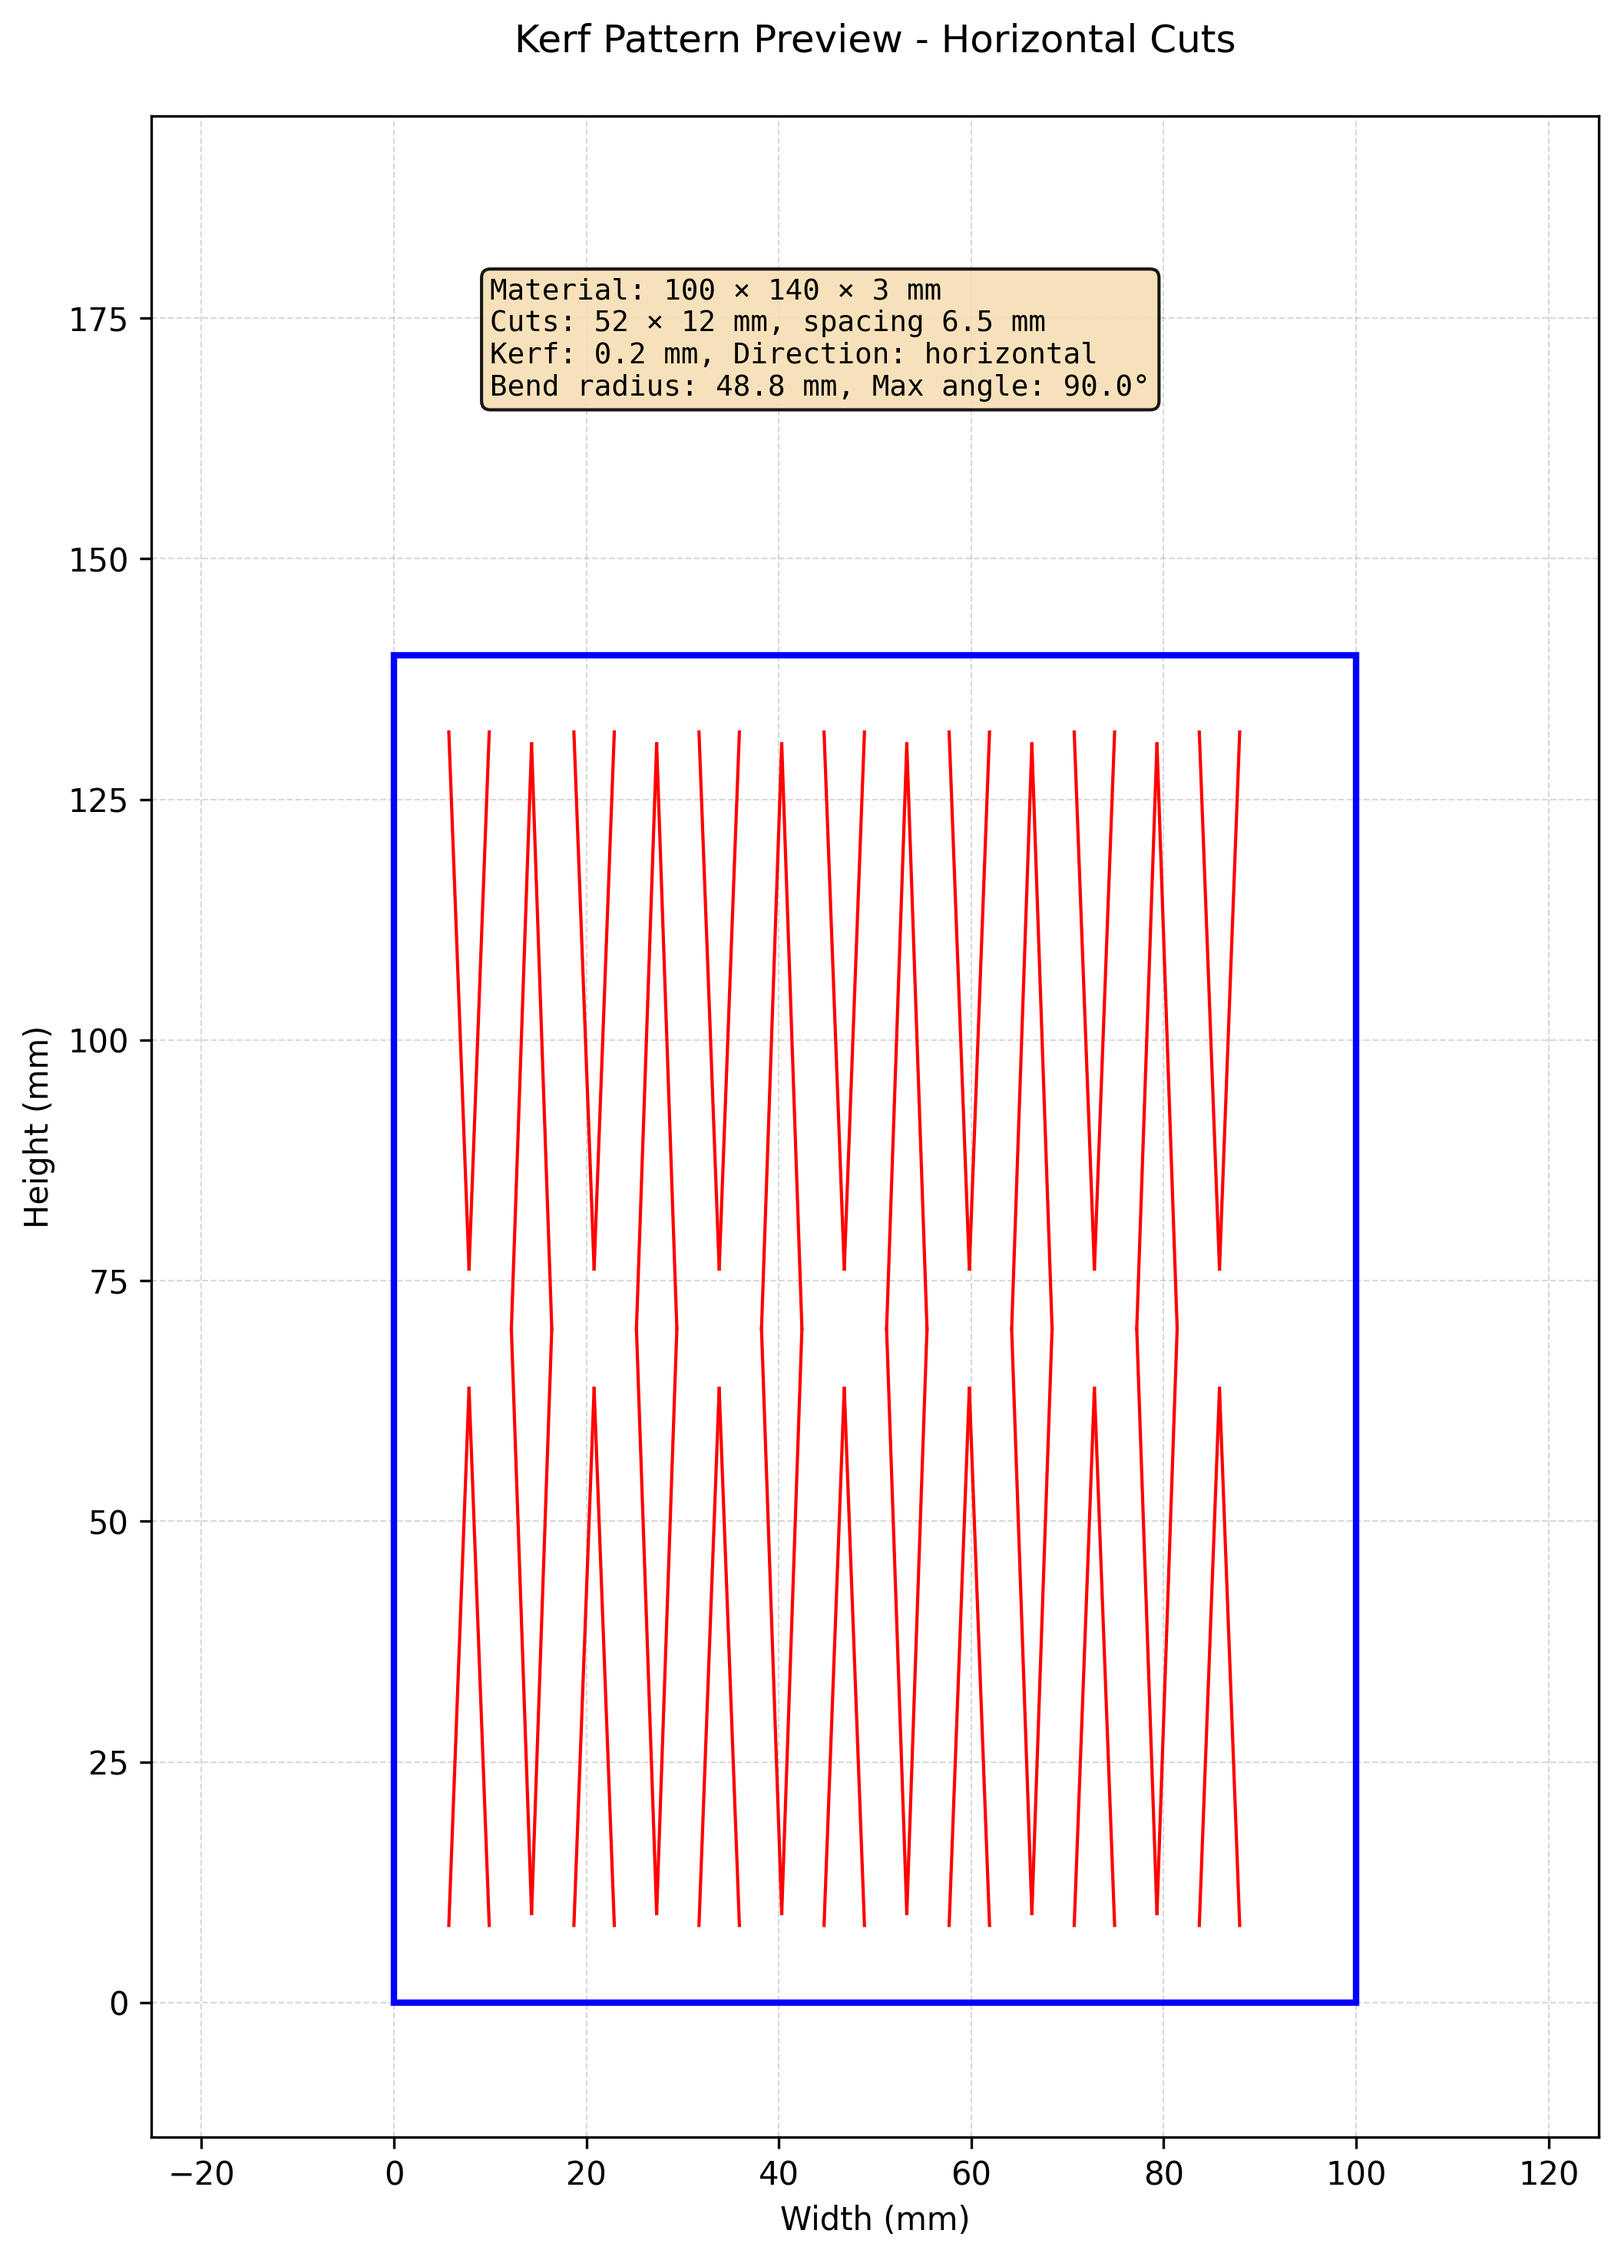
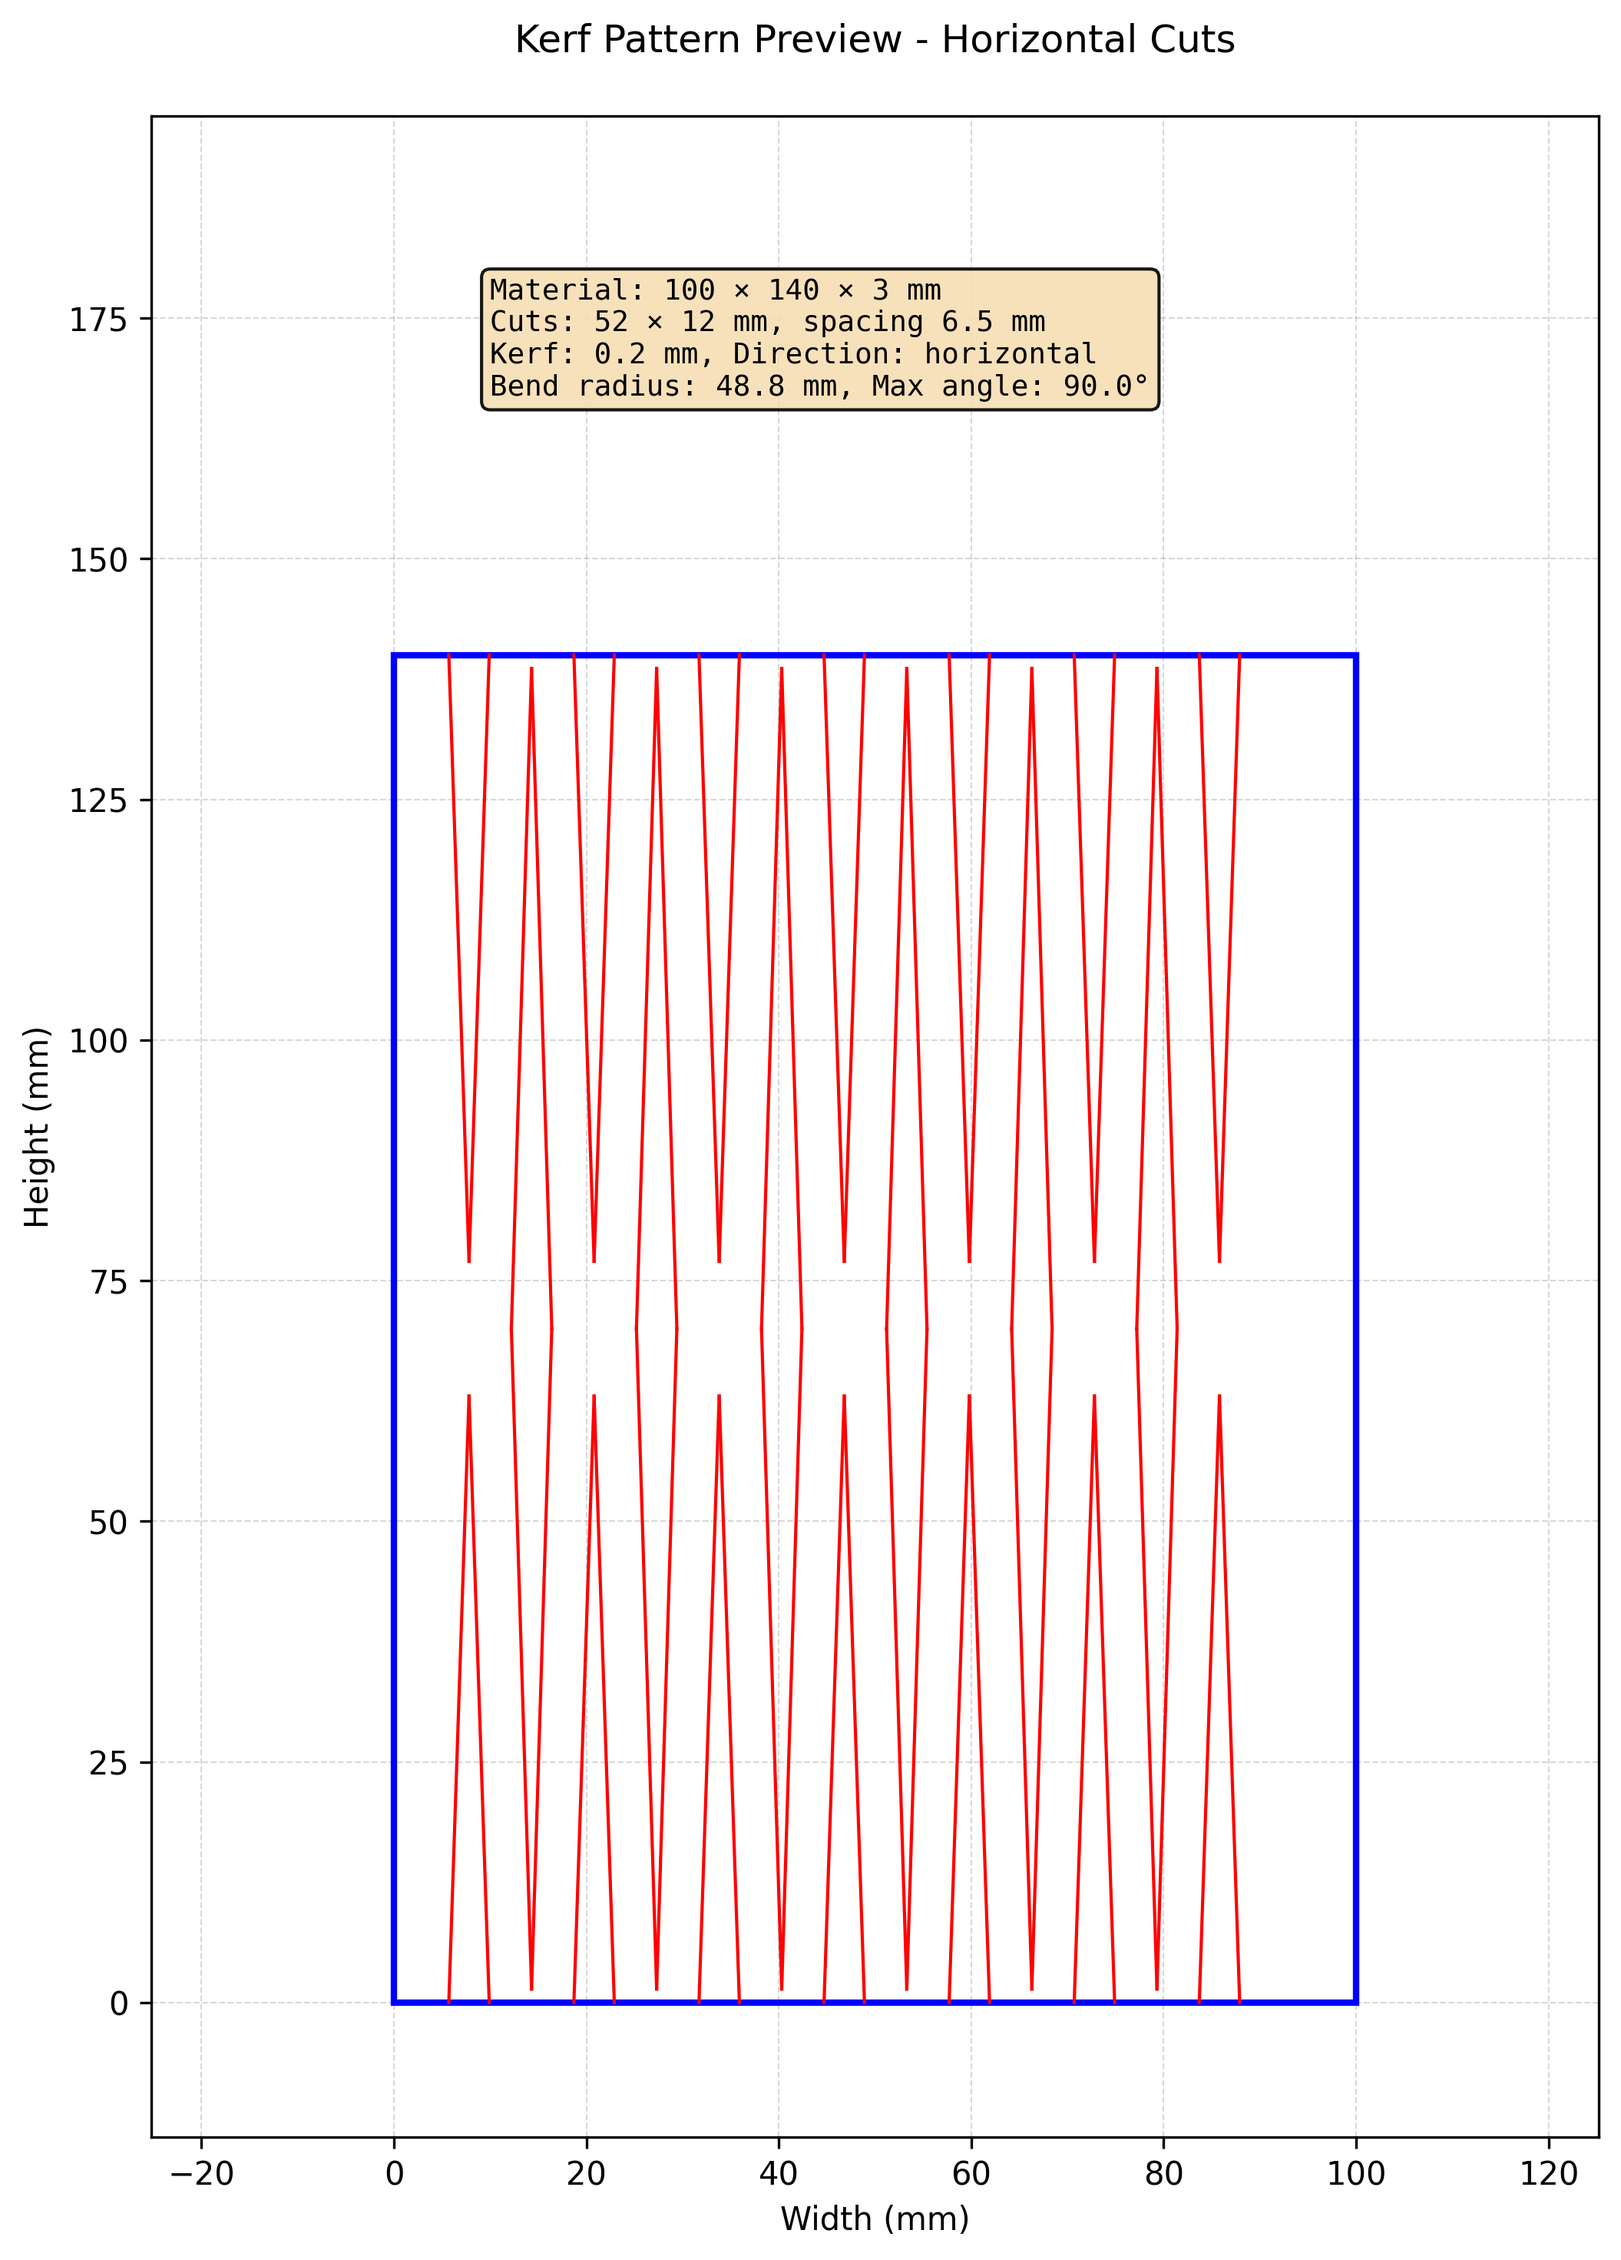
fix: outline edges now cut through split shapes at material boundaries
For diamond and oval patterns, the top and bottom outline edges are now
on the "cuts" layer and the split shapes extend to material edges (y=0
and y=material_height). This ensures half-shapes at the edges are fully
cut out rather than remaining attached at their open ends.

Changes:
- Split shapes in first/last rows extend to material edges
- Top/bottom outline edges use "cuts" layer for diamond/oval patterns
- Side outline edges remain on "outline" layer (reference only)
- Regenerated all README example images with corrected patterns

Changed region(s): [[0.2771, 0.6496, 0.7698, 0.897], [0.2771, 0.3093, 0.7698, 0.5258]]

diff --git a/src/kerf_generator/patterns.py b/src/kerf_generator/patterns.py
@@ -217,17 +217,38 @@ def _generate_diamond_pattern(params: KerfParameters) -> List[LineSegment]:
     # Generate pattern for each row
     for row_idx in range(num_rows):
         # Calculate this row's vertical position
-        row_y_start = offset + (row_idx * (row_height + row_gap))
+        # First row starts at 0 (bottom edge), last row ends at material_height (top edge)
+        is_first_row = (row_idx == 0)
+        is_last_row = (row_idx == num_rows - 1)
+
+        if is_first_row:
+            row_y_start = 0  # Start at material bottom edge
+        else:
+            row_y_start = offset + (row_idx * (row_height + row_gap))
+
+        # Calculate actual row height for this row
+        if is_first_row and is_last_row:
+            # Single row: use full material height
+            actual_row_height = params.material_height
+        elif is_first_row:
+            # First row: extend to bottom edge
+            actual_row_height = offset + row_height
+        elif is_last_row:
+            # Last row: extend to top edge
+            actual_row_height = params.material_height - row_y_start
+        else:
+            # Middle rows: use calculated row height
+            actual_row_height = row_height
 
         # Calculate diamond heights for this row
         # Full diamonds: almost no inset from top/bottom of row (~1%)
-        full_diamond_height = row_height * 0.98
-        full_diamond_inset = row_height * 0.01
+        full_diamond_height = actual_row_height * 0.98
+        full_diamond_inset = actual_row_height * 0.01
 
         # Split diamonds: extend to actual row edges
         # Very narrow gap in middle (10%) for tight pattern
         split_gap_ratio = 0.10  # 10% gap
-        split_total_height = row_height
+        split_total_height = actual_row_height
         split_gap = split_total_height * split_gap_ratio
         split_v_height = (split_total_height - split_gap) / 2
 
@@ -432,10 +453,31 @@ def _generate_oval_pattern(params: KerfParameters) -> List[LineSegment]:
     # Generate pattern for each row
     for row_idx in range(num_rows):
         # Calculate this row's vertical position
-        row_y_start = offset + (row_idx * (row_height + row_gap))
+        # First row starts at 0 (bottom edge), last row ends at material_height (top edge)
+        is_first_row = (row_idx == 0)
+        is_last_row = (row_idx == num_rows - 1)
+
+        if is_first_row:
+            row_y_start = 0  # Start at material bottom edge
+        else:
+            row_y_start = offset + (row_idx * (row_height + row_gap))
+
+        # Calculate actual row height for this row
+        if is_first_row and is_last_row:
+            # Single row: use full material height
+            actual_row_height = params.material_height
+        elif is_first_row:
+            # First row: extend to bottom edge
+            actual_row_height = offset + row_height
+        elif is_last_row:
+            # Last row: extend to top edge
+            actual_row_height = params.material_height - row_y_start
+        else:
+            # Middle rows: use calculated row height
+            actual_row_height = row_height
 
         # Calculate oval height for this row (use ~80% of row height)
-        oval_height = row_height * 0.8
+        oval_height = actual_row_height * 0.8
 
         # Gap for split ovals (space between top arc and bottom arc)
         split_gap = oval_height * 0.3
@@ -567,7 +609,8 @@ def generate_outline(params: KerfParameters) -> List[LineSegment]:
     Generate outline rectangle for the material boundary.
 
     Creates a closed rectangle representing the material edges.
-    Useful for DXF export and preview visualization.
+    For diamond/oval patterns, top and bottom edges use "cuts" layer
+    to cut through the open ends of split shapes at the material edges.
 
     Args:
         params: KerfParameters defining the material dimensions
@@ -575,14 +618,18 @@ def generate_outline(params: KerfParameters) -> List[LineSegment]:
     Returns:
         List of 4 LineSegment objects forming a rectangle
     """
+    # For diamond/oval patterns, top and bottom edges need to cut through split shapes
+    needs_cutting_edges = params.pattern_type in ["diamond", "oval"]
+    horizontal_layer = "cuts" if needs_cutting_edges else "outline"
+
     outline = [
-        # Bottom edge
-        LineSegment(0, 0, params.material_width, 0, layer="outline"),
-        # Right edge
+        # Bottom edge (cuts layer for diamond/oval to close split shapes)
+        LineSegment(0, 0, params.material_width, 0, layer=horizontal_layer),
+        # Right edge (outline layer)
         LineSegment(params.material_width, 0, params.material_width, params.material_height, layer="outline"),
-        # Top edge
-        LineSegment(params.material_width, params.material_height, 0, params.material_height, layer="outline"),
-        # Left edge
+        # Top edge (cuts layer for diamond/oval to close split shapes)
+        LineSegment(params.material_width, params.material_height, 0, params.material_height, layer=horizontal_layer),
+        # Left edge (outline layer)
         LineSegment(0, params.material_height, 0, 0, layer="outline"),
     ]
 

diff --git a/src/kerf_generator/exporters.py b/src/kerf_generator/exporters.py
@@ -75,20 +75,37 @@ def export_dxf(
     # Add outline if requested
     if include_outline:
         # Material boundary rectangle
-        outline_points = [
-            (0, 0),
-            (params.material_width, 0),
-            (params.material_width, params.material_height),
-            (0, params.material_height),
-            (0, 0),  # Close the rectangle
-        ]
+        # For diamond/oval patterns, top and bottom edges need to be on "cuts" layer
+        # to cut through the open ends of split shapes
+        needs_cutting_edges = params.pattern_type in ["diamond", "oval"]
 
-        for i in range(len(outline_points) - 1):
-            msp.add_line(
-                start=outline_points[i],
-                end=outline_points[i + 1],
-                dxfattribs={"layer": "outline"},
-            )
+        # Bottom edge (y=0)
+        msp.add_line(
+            start=(0, 0),
+            end=(params.material_width, 0),
+            dxfattribs={"layer": "cuts" if needs_cutting_edges else "outline"},
+        )
+
+        # Right edge
+        msp.add_line(
+            start=(params.material_width, 0),
+            end=(params.material_width, params.material_height),
+            dxfattribs={"layer": "outline"},
+        )
+
+        # Top edge (y=material_height)
+        msp.add_line(
+            start=(params.material_width, params.material_height),
+            end=(0, params.material_height),
+            dxfattribs={"layer": "cuts" if needs_cutting_edges else "outline"},
+        )
+
+        # Left edge
+        msp.add_line(
+            start=(0, params.material_height),
+            end=(0, 0),
+            dxfattribs={"layer": "outline"},
+        )
 
     # Add text annotation with parameters
     text_y = params.material_height + 5
